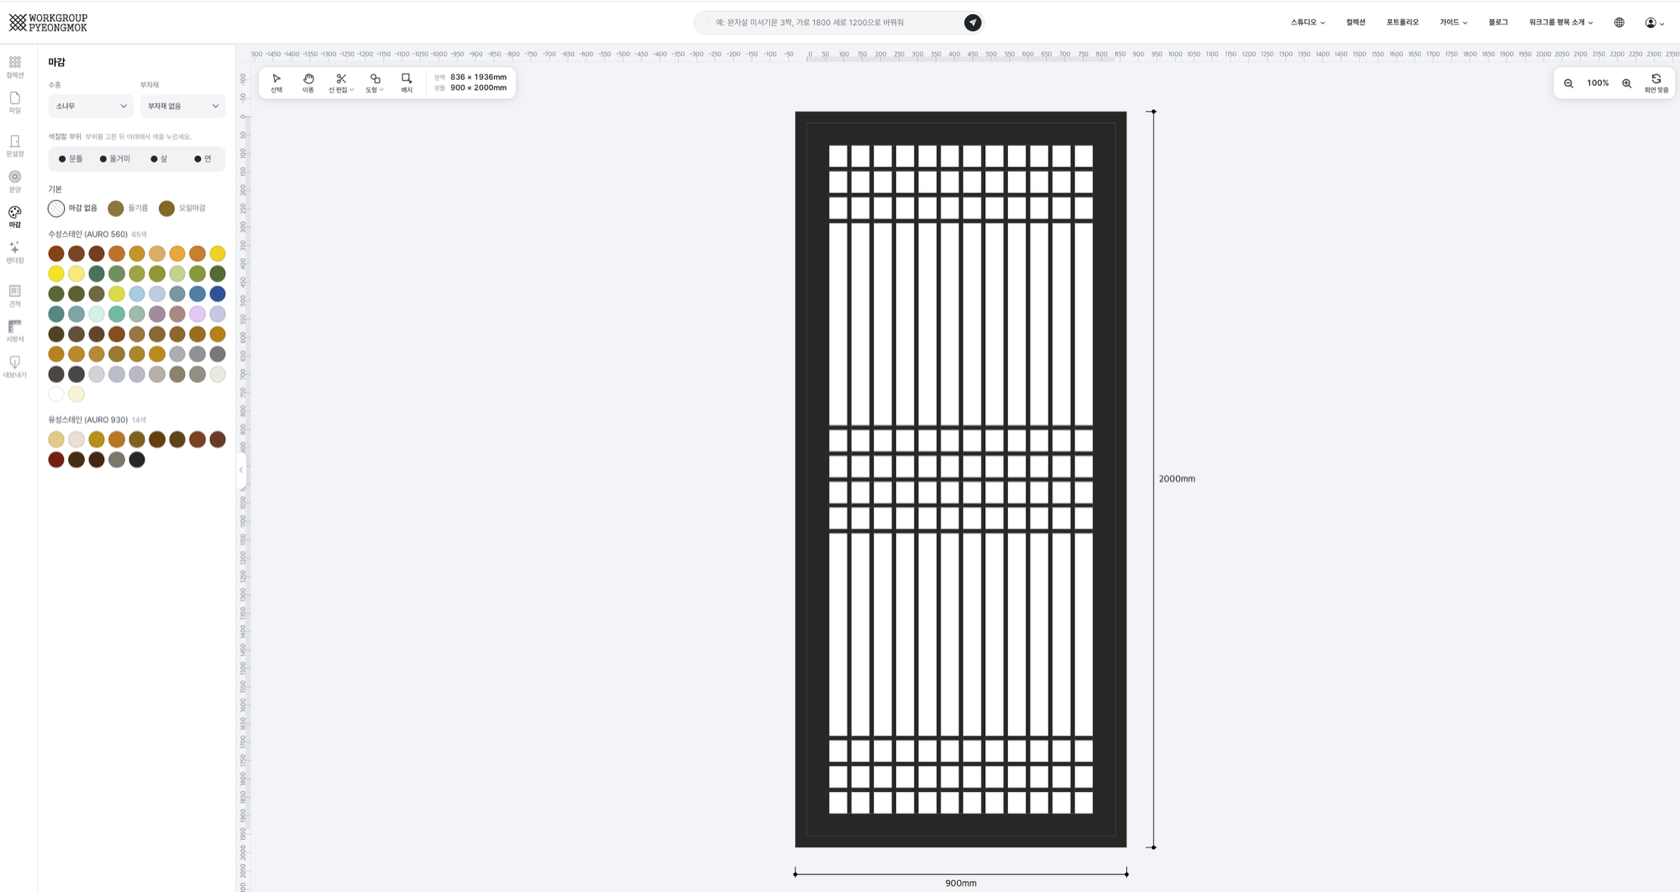
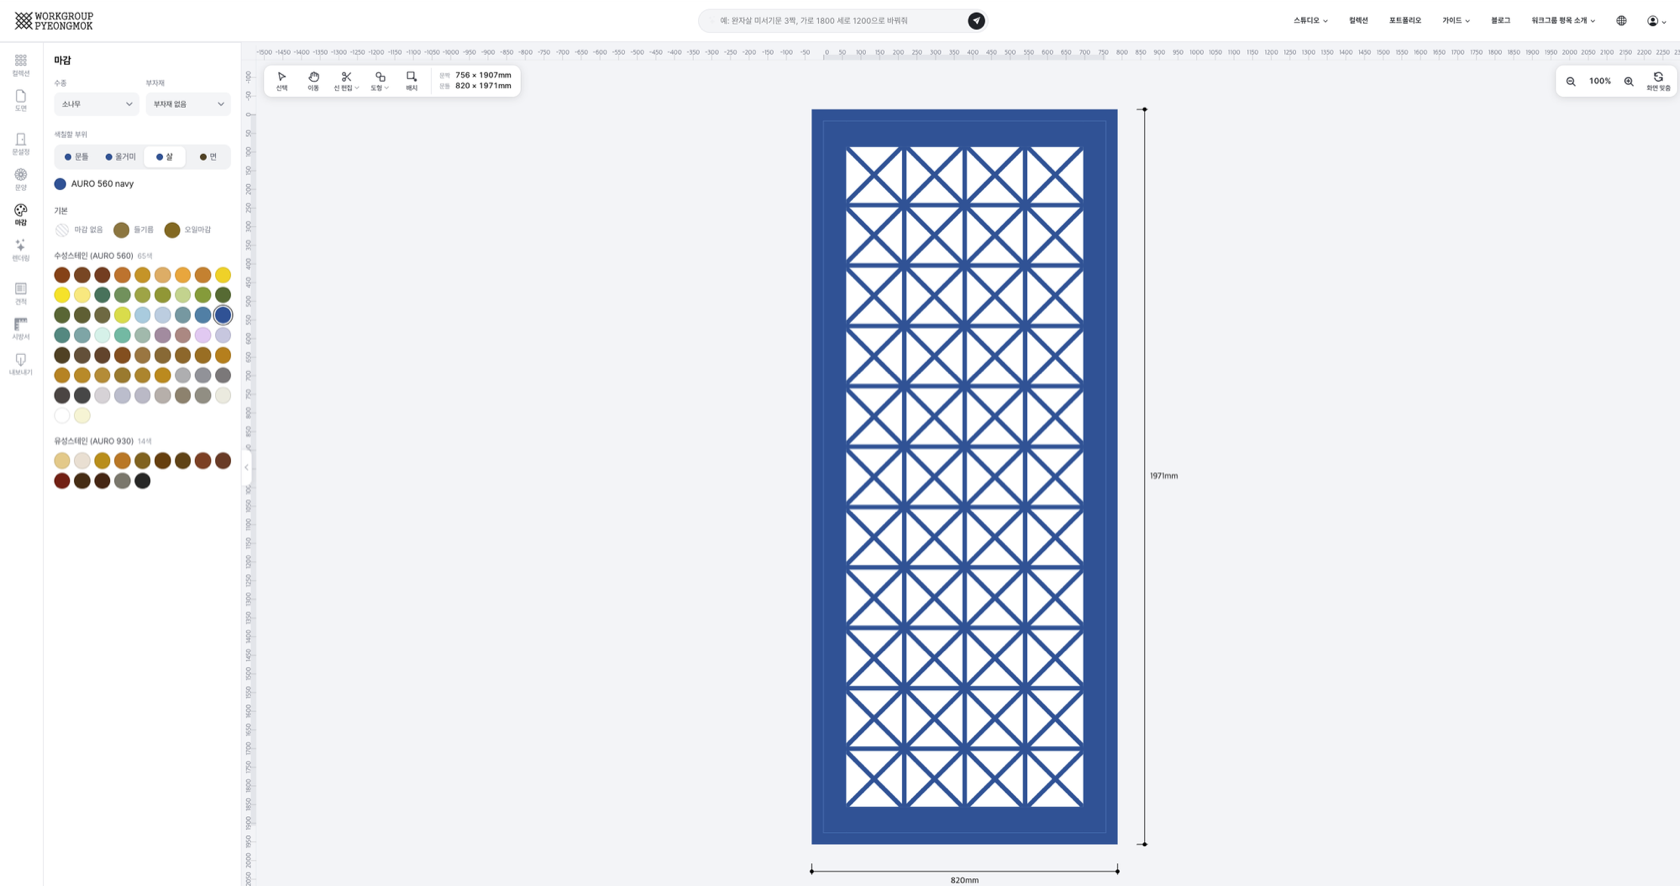
가이드에 최상위 메뉴 '마감 & 컬러 샘플' 추가 — 마감 탭 사용법과 DB 팔레트 그대로의 전체 색 견본(한·영)
- src/guide/finish.php, en/finish.php 신설, 공용 _swatches.php가 color_swatches·cost_table을 읽어 견본을 그림
  (관리자 컬러 팔레트 변경 시 자동 반영, 영문은 term()으로 색 이름 치환)
- 가이드 사이드바·가이드 홈 카드·상단 가이드 메뉴(데스크톱·모바일)·사이트맵·이전/다음 연결에 추가
- 마감 탭 캡처 한·영 교체/추가(finish.png, finish-en.png), 세살 가이드에서 새 페이지로 링크

diff --git a/src/guide/guide.css b/src/guide/guide.css
@@ -411,3 +411,16 @@ body:has(.guide-wrap) {
 @media (max-width: 480px) {
     .guide-categories { grid-template-columns: 1fr; gap: 12px; }
 }
+
+/* 마감 가이드(finish.php) 컬러 샘플 — _swatches.php가 DB 팔레트로 그린다 */
+.sw-count { font-size: 12px; font-weight: 400; color: var(--text-muted); margin-left: 4px; }
+.sw-grid { display: grid; grid-template-columns: repeat(auto-fill, minmax(150px, 1fr)); gap: 10px 14px; margin-bottom: 28px; }
+.sw-item { display: flex; align-items: center; gap: 10px; min-width: 0; }
+.sw-dot { flex: none; width: 32px; height: 32px; border-radius: 50%; box-shadow: inset 0 0 0 1px rgba(0, 0, 0, 0.12); }
+.sw-none { background: repeating-linear-gradient(135deg, #fff 0 4px, #E4E6EB 4px 6px); }
+.sw-text { display: flex; flex-direction: column; min-width: 0; line-height: 1.3; }
+.sw-text b { font-size: 13px; font-weight: 500; color: var(--text); white-space: nowrap; overflow: hidden; text-overflow: ellipsis; }
+.sw-text small, .sw-chip small { font-size: 11px; color: var(--text-muted); font-variant-numeric: tabular-nums; }
+.sw-basic { display: flex; flex-wrap: wrap; gap: 10px 22px; margin-bottom: 28px; }
+.sw-chip { display: flex; align-items: center; gap: 8px; }
+.sw-chip b { font-size: 13px; font-weight: 500; color: var(--text); }

diff --git a/src/guide/finish.php b/src/guide/finish.php
@@ -1,0 +1,63 @@
+<?php
+$guide_current = 'finish.php';
+$guide_title   = '마감 & 컬러 샘플';
+$guide_prev    = ['href' => 'studio-mondrian.php', 'title' => '몬드리안'];
+$guide_next    = ['href' => 'canvas-toolbar.php', 'title' => '캔버스 툴바'];
+include __DIR__ . '/_head.php';
+?>
+
+<h1>마감 &amp; 컬러 샘플</h1>
+<p class="guide-lead">
+    스튜디오 왼쪽 메뉴의 <strong>마감</strong> 탭에서 수종과 부자재를 고르고, 문틀·울거미·살·면 부위마다 마감 색을 정합니다.
+    7개 엔진 모두 같은 방식이며, 고른 마감은 예상 견적에 바로 반영됩니다. 아래에서 고를 수 있는 모든 색 견본을 확인할 수 있습니다.
+</p>
+
+<div class="guide-screenshot">
+    <img src="/src/img/guide/finish.png" alt="마감 탭을 연 화면 — 수종·부자재, 색칠할 부위(문틀·울거미·살·면), 기본 마감, 수성스테인(AURO 560)·유성스테인(AURO 930) 색 견본, 캔버스에는 살·울거미를 AURO 560 navy로 칠한 도면" loading="lazy">
+</div>
+
+<h2>마감 탭 사용 순서</h2>
+<ol class="guide-steps">
+    <li>왼쪽 메뉴의 <span class="guide-ui"><i class="bi bi-palette"></i> 마감</span> 탭을 엽니다.</li>
+    <li><strong>수종</strong>과 <strong>부자재</strong>를 고릅니다. 부자재가 필요 없으면 <span class="guide-ui">부자재 없음</span>을 고릅니다.</li>
+    <li><strong>색칠할 부위</strong>에서 <strong>문틀 · 울거미 · 살 · 면</strong> 중 하나를 누릅니다. 부위를 고르지 않고 색을 누르면 안내가 뜹니다.</li>
+    <li>아래 <strong>기본</strong> 마감이나 스테인 색 견본에서 색을 누르면 그 부위에 바로 칠해집니다. 색을 누르면 그 색이 속한 마감 종류도 함께 선택됩니다.</li>
+    <li>부위를 바꿔 가며 나머지 부위도 같은 방법으로 칠합니다. 현재 고른 부위의 색 이름은 부위 버튼 바로 아래에 표시됩니다.</li>
+</ol>
+
+<div class="guide-tip">
+    <i class="bi bi-lightbulb-fill"></i>
+    <span><strong>면</strong>을 고른 뒤 색을 누르면 <strong>면컬러 칠하기</strong>가 켜집니다. 도면의 칸을 클릭하면 그 칸만 칠해지고, 오른쪽 클릭은 지우기입니다. 마감 탭을 벗어나면 칠하기는 자동으로 꺼집니다.</span>
+</div>
+
+<div class="guide-note">
+    <i class="bi bi-info-circle-fill"></i>
+    <span><strong>마감 종류는 문 전체에 하나</strong>입니다. 부위마다 색은 다르게 칠할 수 있지만, 다른 스테인의 색을 누르면 마감 종류가 바뀌고 이미 칠한 부위도 그 스테인에서 가장 가까운 색으로 바뀝니다. 들기름·오일마감을 고르면 문틀·울거미·살이 한 가지 오일 색으로 칠해지고 면 색은 지워집니다.</span>
+</div>
+
+<h2>마감 종류</h2>
+<table class="guide-table">
+    <thead><tr><th>마감</th><th>설명</th></tr></thead>
+    <tbody>
+        <tr><td><strong>마감 없음</strong></td><td>칠하지 않은 원목 그대로입니다.</td></tr>
+        <tr><td><strong>들기름</strong></td><td>전통 천연 오일 마감. 나무결이 그대로 보이며, 한 가지 색으로 칠해집니다.</td></tr>
+        <tr><td><strong>오일마감 (AURO 126)</strong></td><td>천연 오일 마감. 색은 고른 수종에 따라 정해집니다.</td></tr>
+        <tr><td><strong>수성스테인 (AURO 560)</strong></td><td>나무결이 비치는 수성 착색 마감. 아래 색 견본에서 색을 고릅니다.</td></tr>
+        <tr><td><strong>유성스테인 (AURO 930)</strong></td><td>나무결이 비치는 유성 착색 마감. 아래 색 견본에서 색을 고릅니다.</td></tr>
+    </tbody>
+</table>
+
+<h2>컬러 샘플</h2>
+<p>마감 탭에 나오는 색 전체입니다. 색 이름 아래의 코드는 공방에서 도장할 때 쓰는 제조사(AURO) 색 코드입니다.</p>
+
+<div class="guide-warn">
+    <i class="bi bi-exclamation-triangle-fill"></i>
+    <span>화면의 색은 모니터에 따라 다르게 보이고, 실제 색은 수종과 나무결, 도포 횟수에 따라 달라집니다. 정확한 색이 중요하면 견적요청 때 메모로 실물 샘플을 요청해 주세요.</span>
+</div>
+
+<h3>기본</h3>
+<?php $sw_mode = 'basic'; include __DIR__ . '/_swatches.php'; ?>
+
+<?php $sw_mode = 'stain'; include __DIR__ . '/_swatches.php'; ?>
+
+<?php include __DIR__ . '/_foot.php'; ?>

diff --git a/src/guide/en/finish.php b/src/guide/en/finish.php
@@ -1,0 +1,64 @@
+<?php
+// 영문 본문. 한글 원문은 ../finish.php
+$guide_current = 'finish.php';
+$guide_title   = 'Finishes & Colour Samples';
+$guide_prev    = ['href' => 'studio-mondrian.php', 'title' => 'Mondrian'];
+$guide_next    = ['href' => 'canvas-toolbar.php', 'title' => 'Canvas Toolbar'];
+include __DIR__ . '/../_head.php';
+?>
+
+<h1>Finishes &amp; Colour Samples</h1>
+<p class="guide-lead">
+    In the <strong>Finish</strong> tab of the studio's left-hand menu you choose the wood and hardware, and set a finish colour for each part — frame, stiles &amp; rails, slats and faces.
+    It works the same in all seven engines, and the finish you choose is reflected in the estimate right away. Every colour you can pick is shown below.
+</p>
+
+<div class="guide-screenshot">
+    <img src="/src/img/guide/finish-en.png" alt="The Finish tab — Wood and Hardware, Part to colour (Frame, Stile &amp; rail, Slat, Face), Basic finishes, and the water-based (AURO 560) and oil-based (AURO 930) stain swatches, with the slats and stiles painted AURO 560 navy on the canvas" loading="lazy">
+</div>
+
+<h2>Using the Finish Tab</h2>
+<ol class="guide-steps">
+    <li>Open the <span class="guide-ui"><i class="bi bi-palette"></i> Finish</span> tab in the left-hand menu.</li>
+    <li>Choose the <strong>Wood</strong> and <strong>Hardware</strong>. If you don't need hardware, choose <span class="guide-ui">No hardware</span>.</li>
+    <li>Under <strong>Part to colour</strong>, click one of <strong>Frame · Stile &amp; rail · Slat · Face</strong>. If you click a colour without picking a part first, a hint appears.</li>
+    <li>Click a colour among the <strong>Basic</strong> finishes or the stain swatches and that part is painted right away. Clicking a colour also selects the finish it belongs to.</li>
+    <li>Switch parts and paint the rest the same way. The name of the selected part's colour is shown just below the part buttons.</li>
+</ol>
+
+<div class="guide-tip">
+    <i class="bi bi-lightbulb-fill"></i>
+    <span>Pick <strong>Face</strong> and click a colour to turn on <strong>Paint face color</strong>. Click cells in the drawing to paint just those cells; right-click erases. Painting switches off automatically when you leave the Finish tab.</span>
+</div>
+
+<div class="guide-note">
+    <i class="bi bi-info-circle-fill"></i>
+    <span><strong>A door has one finish type.</strong> Each part can have its own colour, but clicking a colour from a different stain switches the finish type, and parts you've already painted change to the nearest colour in that stain. Choosing perilla oil or the oil finish paints the frame, stiles &amp; rails and slats in a single oil colour and clears face colours.</span>
+</div>
+
+<h2>Finish Types</h2>
+<table class="guide-table">
+    <thead><tr><th>Finish</th><th>Description</th></tr></thead>
+    <tbody>
+        <tr><td><strong>No finish</strong></td><td>Bare, unfinished wood.</td></tr>
+        <tr><td><strong>Perilla oil</strong></td><td>A traditional natural oil finish. The grain shows through, in a single colour.</td></tr>
+        <tr><td><strong>Oil finish (AURO 126)</strong></td><td>A natural oil finish. Its colour depends on the wood you choose.</td></tr>
+        <tr><td><strong>Water-based stain (AURO 560)</strong></td><td>A water-based tinted finish that lets the grain show. Choose a colour from the swatches below.</td></tr>
+        <tr><td><strong>Oil-based stain (AURO 930)</strong></td><td>An oil-based tinted finish that lets the grain show. Choose a colour from the swatches below.</td></tr>
+    </tbody>
+</table>
+
+<h2>Colour Samples</h2>
+<p>All the colours offered in the Finish tab. The code under each colour name is the manufacturer's (AURO) colour code the workshop uses when finishing.</p>
+
+<div class="guide-warn">
+    <i class="bi bi-exclamation-triangle-fill"></i>
+    <span>Colours look different from screen to screen, and the real colour varies with the wood, its grain and the number of coats. If exact colour matters, ask for a physical sample in the notes of your quote request.</span>
+</div>
+
+<h3>Basic</h3>
+<?php $sw_mode = 'basic'; include __DIR__ . '/../_swatches.php'; ?>
+
+<?php $sw_mode = 'stain'; include __DIR__ . '/../_swatches.php'; ?>
+
+<?php include __DIR__ . '/../_foot.php'; ?>

diff --git a/src/guide/_swatches.php b/src/guide/_swatches.php
@@ -1,0 +1,51 @@
+<?php
+// 마감 가이드(finish.php, en/finish.php)의 색 견본 — 엔진 마감 탭과 같은 DB 값(color_swatches·cost_table)을 그대로 그린다.
+// 관리자 '컬러 팔레트 관리'에서 색을 바꾸면 이 페이지도 따라 바뀐다. 이름은 term()을 거쳐 영문 페이지에선 영문으로.
+//   $sw_mode = 'stain' : 스테인 팔레트(AURO 560·930…) — 마감 이름의 "AURO NNN"과 그룹 이름 번호를 짝지어 제목을 붙인다
+//   $sw_mode = 'basic' : 기본 마감(마감 없음·천연오일) 칩
+require_once __DIR__ . '/../lib/colors.php';
+require_once __DIR__ . '/../lib/engine_settings.php';
+
+$sw_groups   = get_color_groups();
+$sw_finishes = array_column(get_finish_options(), 'name');
+$sw_auro     = fn($s) => preg_match('/AURO\s*(\d{3})/i', (string) $s, $m) ? $m[1] : null;
+$sw_isOil    = fn($s) => (bool) preg_match('/오일|기름|유$/u', (string) $s);   // engine-common.js isOilFinish와 같은 규칙
+$sw_count    = is_en() ? '%d colours' : '%d색';
+
+if (($sw_mode ?? 'stain') === 'basic') {
+    // 천연오일 색은 엔진과 같은 규칙으로 고른다: 마감 전용 색(들기름) > 수종별 색(소나무) > 자연(NO-01)
+    $oil = [];
+    foreach ($sw_groups as $g) if (strpos($g['key'], '천연오일') === 0) foreach ($g['colors'] as $c) $oil[$c['code']] = $c;
+    $woodCode = ['소나무' => 'NO-02'];
+    echo '<div class="sw-basic">';
+    echo '<div class="sw-chip"><span class="sw-dot sw-none"></span><b>' . htmlspecialchars(is_en() ? 'No finish' : '마감 없음') . '</b><small>' . htmlspecialchars(is_en() ? 'Bare wood' : '원목 그대로') . '</small></div>';
+    foreach ($sw_finishes as $f) {
+        if (!$sw_isOil($f)) continue;
+        if ($f === '들기름') {
+            $c = $oil['NO-10'] ?? null;
+            echo '<div class="sw-chip"><span class="sw-dot" style="background:' . htmlspecialchars($c['hex'] ?? '#c8b48a') . '"></span><b>' . htmlspecialchars(term($f)) . '</b></div>';
+            continue;
+        }
+        // 오일마감은 수종에 따라 색이 달라 수종별로 하나씩 보여 준다
+        foreach (array_column(get_wood_options(), 'name') as $w) {
+            $c = $oil[$woodCode[$w] ?? 'NO-01'] ?? null;
+            echo '<div class="sw-chip"><span class="sw-dot" style="background:' . htmlspecialchars($c['hex'] ?? '#c8b48a') . '"></span><b>' . htmlspecialchars(term($f)) . '</b><small>' . htmlspecialchars(term($w)) . '</small></div>';
+        }
+    }
+    echo '</div>';
+    return;
+}
+
+foreach ($sw_groups as $g) {
+    $code = $sw_auro($g['key']);
+    if (!$code) continue;
+    $title = $g['label'];
+    foreach ($sw_finishes as $f) if ($sw_auro($f) === $code && !$sw_isOil($f)) { $title = term($f); break; }
+    echo '<h3>' . htmlspecialchars($title) . ' <small class="sw-count">' . htmlspecialchars(sprintf($sw_count, count($g['colors']))) . '</small></h3>';
+    echo '<div class="sw-grid">';
+    foreach ($g['colors'] as $c) {
+        echo '<div class="sw-item"><span class="sw-dot" style="background:' . htmlspecialchars($c['hex']) . '"></span>'
+           . '<span class="sw-text"><b>' . htmlspecialchars($c['name']) . '</b><small>' . htmlspecialchars(trim(($c['brand'] ?? '') . ' ' . $c['code'])) . '</small></span></div>';
+    }
+    echo '</div>';
+}

diff --git a/src/components/nav.php b/src/components/nav.php
@@ -199,6 +199,7 @@ $navStudioIcons = [
                     <li><hr class="dropdown-divider"></li>
                     <li><a class="dropdown-item" href="<?= lang_href('/guide/intro') ?>"><i class="bi bi-info-circle me-2"></i><?= htmlspecialchars(t('nav_guide_intro')) ?></a></li>
                     <li><a class="dropdown-item" href="<?= lang_href('/guide/studio-classic') ?>"><i class="bi bi-pencil-square me-2"></i><?= htmlspecialchars(t('nav_guide_studio_usage')) ?></a></li>
+                    <li><a class="dropdown-item" href="<?= lang_href('/guide/finish') ?>"><i class="bi bi-palette me-2"></i><?= htmlspecialchars(t('nav_guide_finish')) ?></a></li>
                     <li><a class="dropdown-item" href="<?= lang_href('/guide/drawing') ?>"><i class="bi bi-folder2-open me-2"></i><?= htmlspecialchars(t('nav_drawing_manage')) ?></a></li>
                     <li><a class="dropdown-item" href="<?= lang_href('/guide/render') ?>"><i class="bi bi-stars me-2"></i><?= htmlspecialchars(t('nav_guide_render')) ?></a></li>
                     <li><a class="dropdown-item" href="<?= lang_href('/guide/collection') ?>"><i class="bi bi-collection-fill me-2"></i><?= htmlspecialchars(t('nav_collection')) ?></a></li>
@@ -303,6 +304,7 @@ $navStudioIcons = [
                 <a class="pm-dw-link" href="<?= lang_href('/guide/') ?>"><i class="bi bi-book"></i><span><?= htmlspecialchars(t('nav_guide_home')) ?></span></a>
                 <a class="pm-dw-link" href="<?= lang_href('/guide/intro') ?>"><i class="bi bi-info-circle"></i><span><?= htmlspecialchars(t('nav_guide_intro')) ?></span></a>
                 <a class="pm-dw-link" href="<?= lang_href('/guide/studio-classic') ?>"><i class="bi bi-pencil-square"></i><span><?= htmlspecialchars(t('nav_guide_studio_usage')) ?></span></a>
+                <a class="pm-dw-link" href="<?= lang_href('/guide/finish') ?>"><i class="bi bi-palette"></i><span><?= htmlspecialchars(t('nav_guide_finish')) ?></span></a>
                 <a class="pm-dw-link" href="<?= lang_href('/guide/drawing') ?>"><i class="bi bi-folder2-open"></i><span><?= htmlspecialchars(t('nav_drawing_manage')) ?></span></a>
                 <a class="pm-dw-link" href="<?= lang_href('/guide/render') ?>"><i class="bi bi-stars"></i><span><?= htmlspecialchars(t('nav_guide_render')) ?></span></a>
                 <a class="pm-dw-link" href="<?= lang_href('/guide/faq') ?>"><i class="bi bi-question-circle"></i><span><?= htmlspecialchars(t('nav_guide_faq')) ?></span></a>

diff --git a/src/lib/i18n/ko.php b/src/lib/i18n/ko.php
@@ -14,6 +14,7 @@ return [
     'nav_guide_intro'          => '스튜디오 소개',
     'nav_guide_studio_usage'   => '스튜디오 사용법',
     'nav_guide_render'         => 'AI 렌더링',
+    'nav_guide_finish'         => '마감',
     'nav_guide_account'        => '계정 설정',
     'nav_guide_order'          => '주문',
     'nav_guide_delivery'       => '배송',
@@ -204,6 +205,7 @@ return [
     'guide_art_drawing'        => '도면 저장 & 불러오기',
     'guide_art_export'         => 'PDF / PNG / DXF 내보내기',
     'guide_art_render'         => 'AI 렌더링 사용법',
+    'guide_art_finish'         => '마감 & 컬러 샘플',
     'guide_art_collection'     => '컬렉션 & 내 보드',
     'guide_art_account'        => '프로필 & 회사 정보',
     'guide_art_order'          => '주문 안내',
@@ -217,6 +219,7 @@ return [
     'guide_card_studio_title'  => '스튜디오란?',
     'guide_card_studio_desc'   => '7가지 격자 패턴 엔진의 상세 사용 방법을 안내합니다.',
     'guide_card_drawing_desc'  => '도면 저장, 버전 관리, PDF·PNG 내보내기 방법을 안내합니다.',
+    'guide_card_finish_desc'   => '수종·부자재와 부위별 마감 색 고르는 법, 전체 컬러 샘플을 확인하세요.',
     'guide_card_render_desc'   => '배경 이미지와 도면을 합성해 AI로 공간을 시각화합니다.',
     'guide_card_collection_desc'=> '공개 라이브러리 패턴을 열람하고 내 보드에 저장하세요.',
     'guide_card_account_desc'  => '프로필, 비밀번호, 회사 정보를 관리하는 방법을 안내합니다.',

diff --git a/src/lib/i18n/en.php b/src/lib/i18n/en.php
@@ -14,6 +14,7 @@ return [
     'nav_guide_intro'          => 'Studio Intro',
     'nav_guide_studio_usage'   => 'Studio Guide',
     'nav_guide_render'         => 'AI Rendering',
+    'nav_guide_finish'         => 'Finishes',
     'nav_guide_account'        => 'Account Settings',
     'nav_guide_order'          => 'Ordering',
     'nav_guide_delivery'       => 'Delivery',
@@ -204,6 +205,7 @@ return [
     'guide_art_drawing'        => 'Saving & Loading Drawings',
     'guide_art_export'         => 'PDF / PNG / DXF Export',
     'guide_art_render'         => 'Using AI Rendering',
+    'guide_art_finish'         => 'Finishes & Colour Samples',
     'guide_art_collection'     => 'Collection & My Boards',
     'guide_art_account'        => 'Profile & Company Info',
     'guide_art_order'          => 'Ordering Guide',
@@ -217,6 +219,7 @@ return [
     'guide_card_studio_title'  => 'What is the Studio?',
     'guide_card_studio_desc'   => 'Detailed instructions for all seven lattice pattern engines.',
     'guide_card_drawing_desc'  => 'How to save drawings, manage versions, and export to PDF or PNG.',
+    'guide_card_finish_desc'   => 'Choose wood, hardware and finish colours for each part, and browse every colour sample.',
     'guide_card_render_desc'   => 'Composite your drawing over a background image and visualize the space with AI.',
     'guide_card_collection_desc'=> 'Browse the public pattern library and save patterns to your boards.',
     'guide_card_account_desc'  => 'How to manage your profile, password, and company information.',

diff --git a/src/guide/studio-classic.php b/src/guide/studio-classic.php
@@ -105,7 +105,7 @@ include __DIR__ . '/_head.php';
 <h2>마감 탭 — 수종 · 색</h2>
 
 <div class="guide-screenshot">
-    <img src="/src/img/guide/finish.png" alt="세살 스튜디오에서 마감 탭을 연 화면 — 수종·부자재 선택, 색칠할 부위(문틀·울거미·살·면), 기본 마감(마감 없음·들기름·오일마감), 수성스테인(AURO 560)·유성스테인(AURO 930) 색 견본" loading="lazy">
+    <img src="/src/img/guide/finish.png" alt="마감 탭을 연 화면 — 수종·부자재, 색칠할 부위(문틀·울거미·살·면), 기본 마감(마감 없음·들기름·오일마감), 수성스테인(AURO 560)·유성스테인(AURO 930) 색 견본" loading="lazy">
 </div>
 <table class="guide-table">
     <thead><tr><th>항목</th><th>설명</th></tr></thead>
@@ -121,6 +121,7 @@ include __DIR__ . '/_head.php';
     <i class="bi bi-lightbulb-fill"></i>
     <span><strong>면</strong>을 고르고 색을 누른 뒤 도면의 칸을 클릭하면 그 칸만 색이 칠해집니다. 오른쪽 클릭은 지우기입니다. 마감 탭을 벗어나면 칠하기 모드는 자동으로 꺼집니다.</span>
 </div>
+<p>전체 색 견본과 마감 종류는 <a href="/guide/finish">마감 &amp; 컬러 샘플</a>에서 볼 수 있습니다.</p>
 
 <h2>렌더링 탭 — 공간 사진 & AI 렌더링</h2>
 <p>

diff --git a/src/guide/index.php b/src/guide/index.php
@@ -56,6 +56,15 @@ require_once __DIR__ . '/../lib/i18n.php';
             <div class="guide-cat-count"><?= htmlspecialchars(sprintf(t("guide_article_count"), 7)) ?></div>
         </a>
 
+        <a href="<?= lang_href("/guide/finish") ?>" class="guide-cat-card">
+            <div class="guide-cat-icon" style="background:var(--accent-tint);color:#000;">
+                <i class="bi bi-palette-fill"></i>
+            </div>
+            <div class="guide-cat-title"><?= htmlspecialchars(t("nav_guide_finish")) ?></div>
+            <div class="guide-cat-desc"><?= htmlspecialchars(t("guide_card_finish_desc")) ?></div>
+            <div class="guide-cat-count"><?= htmlspecialchars(sprintf(t("guide_article_count"), 1)) ?></div>
+        </a>
+
         <a href="<?= lang_href("/guide/drawing") ?>" class="guide-cat-card">
             <div class="guide-cat-icon" style="background:var(--accent-tint);color:#000;">
                 <i class="bi bi-folder2-open"></i>

diff --git a/sitemap.php b/sitemap.php
@@ -25,7 +25,7 @@ $staticUrls = [
 // 가이드 개별 아티클 (src/guide/_head.php의 $guide_nav와 동일한 파일 목록 — 새 아티클 추가 시 여기도 같이 추가)
 foreach ([
     'intro', 'getting-started', 'canvas-toolbar',
-    'studio-classic', 'studio-square', 'studio-cross', 'studio-diamond', 'studio-triangle', 'studio-hexagon', 'studio-mondrian',
+    'studio-classic', 'studio-square', 'studio-cross', 'studio-diamond', 'studio-triangle', 'studio-hexagon', 'studio-mondrian', 'finish',
     'drawing', 'export', 'render', 'collection', 'account', 'order', 'delivery', 'faq',
 ] as $guideFile) {
     $staticUrls[] = ['loc' => "/guide/$guideFile", 'priority' => '0.5', 'meta_path' => "/src/guide/$guideFile.php"];

diff --git a/src/guide/en/studio-classic.php b/src/guide/en/studio-classic.php
@@ -121,6 +121,7 @@ include __DIR__ . '/../_head.php';
     <i class="bi bi-lightbulb-fill"></i>
     <span>Pick <strong>Face</strong>, choose a color, then click cells in the drawing to paint just those cells. Right-click erases. Paint mode switches off automatically when you leave the Finish tab.</span>
 </div>
+<p>See <a href="<?= lang_href('/guide/finish') ?>">Finishes &amp; Colour Samples</a> for every colour swatch and finish type.</p>
 
 <h2>Rendering Tab — Room Photos &amp; AI Rendering</h2>
 <p>

diff --git a/src/guide/_head.php b/src/guide/_head.php
@@ -28,6 +28,13 @@ $guide_nav = [
         ],
     ],
     [
+        'title' => t('nav_guide_finish'), 'icon' => 'bi-palette',
+        'bg' => 'var(--accent-tint)', 'color' => 'var(--text)',
+        'articles' => [
+            ['file' => 'finish.php', 'title' => t('guide_art_finish')],
+        ],
+    ],
+    [
         'title' => t('guide_sec_drawing'), 'icon' => 'bi-folder2-open',
         'bg' => 'var(--accent-tint)', 'color' => 'var(--text)',
         'articles' => [
